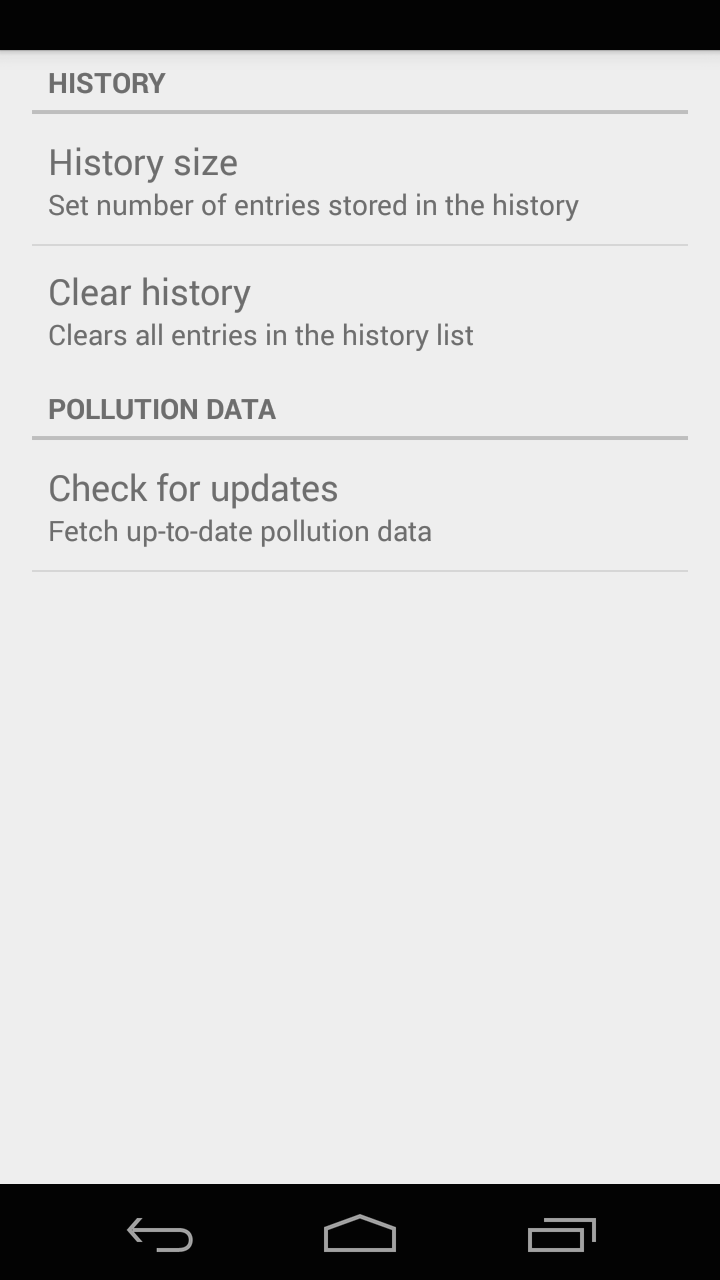
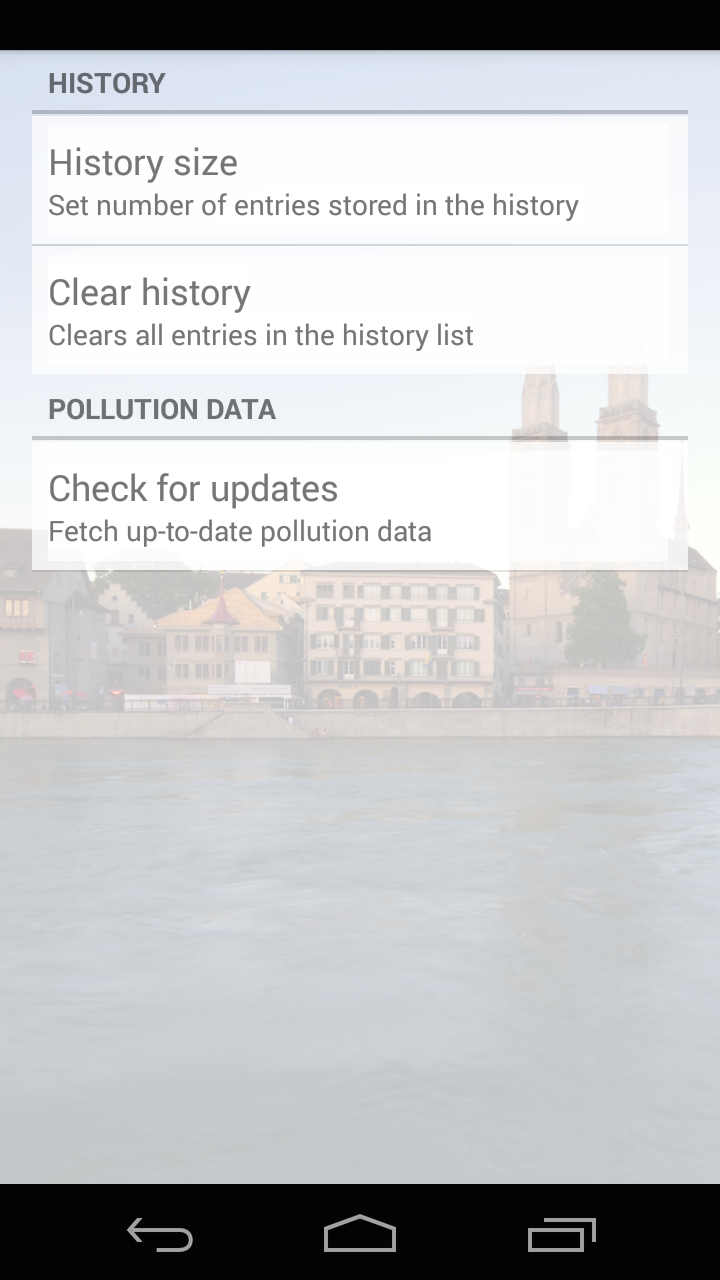
update pic

diff --git a/app/src/main/java/ch/ethz/tik/hrouting/SettingsFragment.java b/app/src/main/java/ch/ethz/tik/hrouting/SettingsFragment.java
@@ -5,6 +5,7 @@ import android.content.DialogInterface;
 import android.os.Bundle;
 import android.preference.Preference;
 import android.preference.PreferenceFragment;
+import android.support.annotation.NonNull;
 import android.view.LayoutInflater;
 import android.view.View;
 import android.view.ViewGroup;
@@ -28,7 +29,7 @@ public class SettingsFragment extends PreferenceFragment {
         super.onCreate(savedInstanceState);
         addPreferencesFromResource(R.xml.preferences);
 
-        Preference delHistPref = (Preference) findPreference("delete_history");
+        Preference delHistPref = findPreference("delete_history");
         delHistPref.setOnPreferenceClickListener(new Preference.OnPreferenceClickListener() {
             @Override
             public boolean onPreferenceClick(Preference arg0) {
@@ -37,7 +38,7 @@ public class SettingsFragment extends PreferenceFragment {
             }
         });
 
-        Preference updateDataPref = (Preference) findPreference("fetch_polldata");
+        Preference updateDataPref = findPreference("fetch_polldata");
         updateDataPref.setOnPreferenceClickListener(new Preference.OnPreferenceClickListener() {
             @Override
             public boolean onPreferenceClick(Preference arg0) {
@@ -48,7 +49,7 @@ public class SettingsFragment extends PreferenceFragment {
     }
 
     @Override
-    public View onCreateView(LayoutInflater inflater, ViewGroup container, Bundle savedInstanceState) {
+    public View onCreateView(@NonNull LayoutInflater inflater, ViewGroup container, Bundle savedInstanceState) {
         View view = super.onCreateView(inflater, container, savedInstanceState);
         view.setBackground(getResources().getDrawable(R.drawable.bg_img));
 
